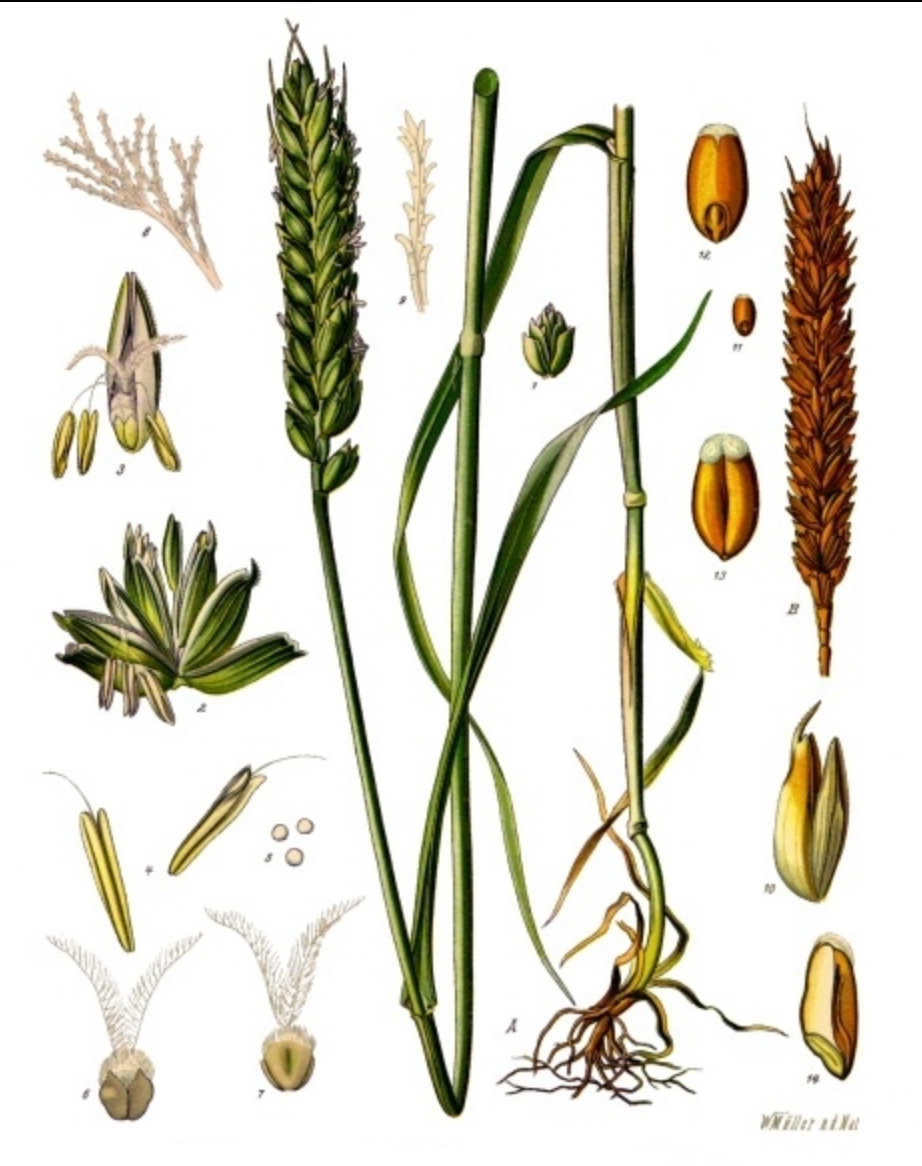
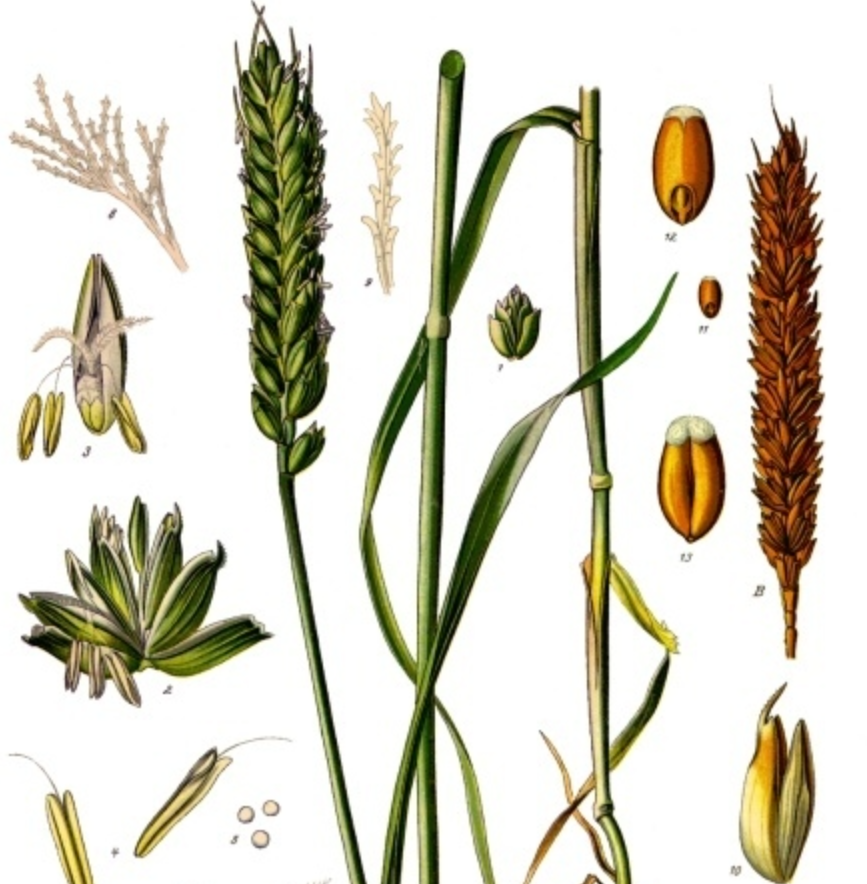
Deploying to gh-pages from @ Bendjelal/bendjelal.fr@a5c309a3e18c53d8cc8b93d42dd61bee09e488be 🚀

diff --git a/blog/index.html b/blog/index.html
@@ -1,5 +1,5 @@
 <!DOCTYPE html> <html lang="fr"> <head> <meta http-equiv="Content-Type" content="text/html; charset=UTF-8"> <meta charset="utf-8"> <meta name="viewport" content="width=device-width, initial-scale=1, shrink-to-fit=no"> <meta http-equiv="X-UA-Compatible" content="IE=edge"> <title> Blog | Yanis Bendjelal </title> <meta name="author" content="Yanis Bendjelal"> <meta name="description" content="Médecin Allergologue · Chercheur · SFA · EAACI "> <meta name="keywords" content="allergologie, médecine, intelligence artificielle, recherche médicale, analyse de données"> <meta http-equiv="Content-Security-Policy" content="default-src 'self'; script-src 'self' 'unsafe-inline' https:; style-src 'self' 'unsafe-inline' https:; img-src 'self' data: https:; font-src 'self' data: https:; media-src 'self' https:; frame-src 'self' https:; connect-src 'self' https:;"> <link rel="stylesheet" href="/assets/css/bootstrap.min.css?v=a4b3f509e79c54a512b890d73235ef04"> <link rel="stylesheet" href="https://cdn.jsdelivr.net/npm/mdbootstrap@4.20.0/css/mdb.min.css" integrity="sha256-jpjYvU3G3N6nrrBwXJoVEYI/0zw8htfFnhT9ljN3JJw=" crossorigin="anonymous"> <link defer rel="stylesheet" href="/assets/css/academicons.min.css?v=f0b7046b84e425c55f3463ac249818f5"> <link defer rel="stylesheet" href="/assets/css/scholar-icons.css?v=62b2ac103a88034e6882a5be5f3e2772"> <link defer rel="stylesheet" type="text/css" href="https://fonts.googleapis.com/css?family=Roboto:300,400,500,700|Roboto+Slab:100,300,400,500,700|Material+Icons&amp;display=swap"> <link defer rel="stylesheet" href="/assets/css/jekyll-pygments-themes-github.css?v=591dab5a4e56573bf4ef7fd332894c99" media="" id="highlight_theme_light"> <link rel="apple-touch-icon" sizes="180x180" href="/assets/img/favicon/apple-touch-icon.png"> <link rel="icon" type="image/png" sizes="32x32" href="/assets/img/favicon/favicon-32x32.png"> <link rel="icon" type="image/png" sizes="16x16" href="/assets/img/favicon/favicon-16x16.png"> <link rel="manifest" href="/assets/img/favicon/site.webmanifest"> <link rel="shortcut icon" href="/assets/img/favicon/favicon.ico"> <link rel="stylesheet" href="/assets/css/main.css?v=d41d8cd98f00b204e9800998ecf8427e"> <link rel="canonical" href="https://bendjelal.fr/blog/"> <script src="/assets/js/theme.js?v=5fea5159b787642c1bbc1f334d60f883"></script> <link defer rel="stylesheet" href="/assets/css/jekyll-pygments-themes-native.css?v=5847e5ed4a4568527aa6cfab446049ca" media="none" id="highlight_theme_dark"> <script>
     initTheme();
-  </script> </head> <body class="fixed-top-nav "> <header> <nav id="navbar" class="navbar navbar-light navbar-expand-sm fixed-top" role="navigation"> <div class="container"> <a class="navbar-brand title font-weight-lighter" href="/"> <span class="font-weight-bold">Yanis</span> Bendjelal </a> <button class="navbar-toggler collapsed ml-auto" type="button" data-toggle="collapse" data-target="#navbarNav" aria-controls="navbarNav" aria-expanded="false" aria-label="Toggle navigation"> <span class="sr-only">Toggle navigation</span> <span class="icon-bar top-bar"></span> <span class="icon-bar middle-bar"></span> <span class="icon-bar bottom-bar"></span> </button> <div class="collapse navbar-collapse text-right" id="navbarNav"> <ul class="navbar-nav ml-auto flex-nowrap"> <li class="nav-item "> <a class="nav-link" href="/">Accueil </a> </li> <li class="nav-item "> <a class="nav-link" href="/publications/">Publications </a> </li> <li class="nav-item "> <a class="nav-link" href="/communications/">Communications </a> </li> <li class="nav-item "> <a class="nav-link" href="/teaching/">Enseignement </a> </li> <li class="nav-item "> <a class="nav-link" href="/cv/">CV </a> </li> <li class="nav-item "> <a class="nav-link" href="/books/">Bibliothèque </a> </li> <li class="nav-item active"> <a class="nav-link" href="/blog/">Blog <span class="sr-only">(current)</span> </a> </li> <li class="nav-item"> <button id="search-toggle" title="Search" onclick="openSearchModal()"> <span class="nav-link"><i class="fa-solid fa-magnifying-glass"></i></span> </button> </li> <li class="toggle-container"> <button id="light-toggle" title="Change theme"> <i class="fa-half-sun-moon" id="light-toggle-system"></i> <i class="fa-solid fa-moon" id="light-toggle-dark"></i> <i class="fa-solid fa-sun" id="light-toggle-light"></i> </button> </li> </ul> </div> </div> </nav> <progress id="progress" value="0"> <div class="progress-container"> <span class="progress-bar"></span> </div> </progress> </header> <div class="container mt-5" role="main"> <div class="post"> <div class="header-bar"> <h1>Blog</h1> <h2></h2> </div> <ul class="post-list"> <li> <div class="row"> <div class="col-sm-9"> <h3> <a class="post-title" href="/blog/2026/Corticoides/">Allergie aux corticoïdes</a> </h3> <p></p> <p class="post-meta"> 24 min read   ·   January 29, 2026 </p> <p class="post-tags"> <a href="/blog/2026"> <i class="fa-solid fa-calendar fa-sm"></i> 2026 </a> </p> </div> <div class="col-sm-3"> <img class="card-img" src="/assets/img/blog/cortisone.png" style="object-fit: cover; height: 90%" alt="image"> </div> </div> </li> <li> <div class="row"> <div class="col-sm-9"> <h3> <a class="post-title" href="/blog/2026/Reaction_perfusion_vancomycine_revue/">Réaction de perfusion à la vancomycine</a> </h3> <p></p> <p class="post-meta"> 7 min read   ·   January 23, 2026 </p> <p class="post-tags"> <a href="/blog/2026"> <i class="fa-solid fa-calendar fa-sm"></i> 2026 </a> </p> </div> <div class="col-sm-3"> <img class="card-img" src="/assets/img/blog/vancomycine.png" style="object-fit: cover; height: 90%" alt="image"> </div> </div> </li> <li> <div class="row"> <div class="col-sm-9"> <h3> <a class="post-title" href="/blog/2025/Ble/">Allergie au blé et au gluten, maladie coeliaque, intolérance non coeliaque au blé</a> </h3> <p></p> <p class="post-meta"> 15 min read   ·   December 20, 2025 </p> <p class="post-tags"> <a href="/blog/2025"> <i class="fa-solid fa-calendar fa-sm"></i> 2025 </a> </p> </div> <div class="col-sm-3"> <img class="card-img" src="/assets/img/blog/ble.png" style="object-fit: cover; height: 90%" alt="image"> </div> </div> </li> </ul> </div> </div> <footer class="fixed-bottom" role="contentinfo"> <div class="container mt-0"> © Copyright 2026 Yanis Bendjelal. Propulsé par <a href="https://jekyllrb.com/" target="_blank" rel="external nofollow noopener">Jekyll</a> avec le thème <a href="https://github.com/alshedivat/al-folio" rel="external nofollow noopener" target="_blank">al-folio</a>. </div> </footer> <script src="https://cdn.jsdelivr.net/npm/jquery@3.6.0/dist/jquery.min.js" integrity="sha256-/xUj+3OJU5yExlq6GSYGSHk7tPXikynS7ogEvDej/m4=" crossorigin="anonymous"></script> <script src="/assets/js/bootstrap.bundle.min.js"></script> <script src="https://cdn.jsdelivr.net/npm/mdbootstrap@4.20.0/js/mdb.min.js" integrity="sha256-NdbiivsvWt7VYCt6hYNT3h/th9vSTL4EDWeGs5SN3DA=" crossorigin="anonymous"></script> <script defer src="https://cdn.jsdelivr.net/npm/masonry-layout@4.2.2/dist/masonry.pkgd.min.js" integrity="sha256-Nn1q/fx0H7SNLZMQ5Hw5JLaTRZp0yILA/FRexe19VdI=" crossorigin="anonymous"></script> <script defer src="https://cdn.jsdelivr.net/npm/imagesloaded@5.0.0/imagesloaded.pkgd.min.js" integrity="sha256-htrLFfZJ6v5udOG+3kNLINIKh2gvoKqwEhHYfTTMICc=" crossorigin="anonymous"></script> <script defer src="/assets/js/masonry.js?v=a0db7e5d5c70cc3252b3138b0c91dcaf" type="text/javascript"></script> <script defer src="https://cdn.jsdelivr.net/npm/medium-zoom@1.1.0/dist/medium-zoom.min.js" integrity="sha256-ZgMyDAIYDYGxbcpJcfUnYwNevG/xi9OHKaR/8GK+jWc=" crossorigin="anonymous"></script> <script defer src="/assets/js/zoom.js?v=85ddb88934d28b74e78031fd54cf8308"></script> <script src="/assets/js/no_defer.js?v=2781658a0a2b13ed609542042a859126"></script> <script defer src="/assets/js/common.js?v=c15de51d4bb57887caa2c21988d97279"></script> <script defer src="/assets/js/copy_code.js?v=c8a01c11a92744d44b093fc3bda915df" type="text/javascript"></script> <script defer src="/assets/js/jupyter_new_tab.js?v=d9f17b6adc2311cbabd747f4538bb15f"></script> <script async src="https://d1bxh8uas1mnw7.cloudfront.net/assets/embed.js"></script> <script async src="https://badge.dimensions.ai/badge.js"></script> <script defer type="text/javascript" id="MathJax-script" src="https://cdn.jsdelivr.net/npm/mathjax@3.2.2/es5/tex-mml-chtml.js" integrity="sha256-MASABpB4tYktI2Oitl4t+78w/lyA+D7b/s9GEP0JOGI=" crossorigin="anonymous"></script> <script src="/assets/js/mathjax-setup.js?v=a5bb4e6a542c546dd929b24b8b236dfd"></script> <script defer src="https://cdnjs.cloudflare.com/polyfill/v3/polyfill.min.js?features=es6" crossorigin="anonymous"></script> <script async src="https://www.googletagmanager.com/gtag/js?id="></script> <script defer src="/assets/js/google-analytics-setup.js"></script> <script defer src="/assets/js/progress-bar.js?v=2f30e0e6801ea8f5036fa66e1ab0a71a" type="text/javascript"></script> <script src="/assets/js/vanilla-back-to-top.min.js?v=f40d453793ff4f64e238e420181a1d17"></script> <script>
+  </script> </head> <body class="fixed-top-nav "> <header> <nav id="navbar" class="navbar navbar-light navbar-expand-sm fixed-top" role="navigation"> <div class="container"> <a class="navbar-brand title font-weight-lighter" href="/"> <span class="font-weight-bold">Yanis</span> Bendjelal </a> <button class="navbar-toggler collapsed ml-auto" type="button" data-toggle="collapse" data-target="#navbarNav" aria-controls="navbarNav" aria-expanded="false" aria-label="Toggle navigation"> <span class="sr-only">Toggle navigation</span> <span class="icon-bar top-bar"></span> <span class="icon-bar middle-bar"></span> <span class="icon-bar bottom-bar"></span> </button> <div class="collapse navbar-collapse text-right" id="navbarNav"> <ul class="navbar-nav ml-auto flex-nowrap"> <li class="nav-item "> <a class="nav-link" href="/">Accueil </a> </li> <li class="nav-item "> <a class="nav-link" href="/publications/">Publications </a> </li> <li class="nav-item "> <a class="nav-link" href="/communications/">Communications </a> </li> <li class="nav-item "> <a class="nav-link" href="/teaching/">Enseignement </a> </li> <li class="nav-item "> <a class="nav-link" href="/cv/">CV </a> </li> <li class="nav-item "> <a class="nav-link" href="/books/">Bibliothèque </a> </li> <li class="nav-item active"> <a class="nav-link" href="/blog/">Blog <span class="sr-only">(current)</span> </a> </li> <li class="nav-item"> <button id="search-toggle" title="Search" onclick="openSearchModal()"> <span class="nav-link"><i class="fa-solid fa-magnifying-glass"></i></span> </button> </li> <li class="toggle-container"> <button id="light-toggle" title="Change theme"> <i class="fa-half-sun-moon" id="light-toggle-system"></i> <i class="fa-solid fa-moon" id="light-toggle-dark"></i> <i class="fa-solid fa-sun" id="light-toggle-light"></i> </button> </li> </ul> </div> </div> </nav> <progress id="progress" value="0"> <div class="progress-container"> <span class="progress-bar"></span> </div> </progress> </header> <div class="container mt-5" role="main"> <div class="post"> <div class="header-bar"> <h1>Blog</h1> <h2></h2> </div> <ul class="post-list"> <li> <div class="row"> <div class="col-sm-9"> <h3> <a class="post-title" href="/blog/2026/Corticoides/">Allergie aux corticoïdes</a> </h3> <p></p> <p class="post-meta"> 24 min read   ·   January 29, 2026 </p> <p class="post-tags"> <a href="/blog/2026"> <i class="fa-solid fa-calendar fa-sm"></i> 2026 </a> </p> </div> <div class="col-sm-3"> <img class="card-img" src="/assets/img/blog/cortisone.png" style="object-fit: cover; height: 90%" alt="image"> </div> </div> </li> <li> <div class="row"> <div class="col-sm-9"> <h3> <a class="post-title" href="/blog/2026/Reaction_perfusion_vancomycine_revue/">Réaction de perfusion à la vancomycine</a> </h3> <p></p> <p class="post-meta"> 7 min read   ·   January 23, 2026 </p> <p class="post-tags"> <a href="/blog/2026"> <i class="fa-solid fa-calendar fa-sm"></i> 2026 </a> </p> </div> <div class="col-sm-3"> <img class="card-img" src="/assets/img/blog/vancomycine.png" style="object-fit: cover; height: 90%" alt="image"> </div> </div> </li> <li> <div class="row"> <div class="col-sm-9"> <h3> <a class="post-title" href="/blog/2025/Ble/">Allergie au blé et au gluten, maladie coeliaque, intolérance non coeliaque au blé</a> </h3> <p></p> <p class="post-meta"> 15 min read   ·   December 20, 2025 </p> <p class="post-tags"> <a href="/blog/2025"> <i class="fa-solid fa-calendar fa-sm"></i> 2025 </a> </p> </div> <div class="col-sm-3"> <img class="card-img" src="/assets/img/blog/ble2.png" style="object-fit: cover; height: 90%" alt="image"> </div> </div> </li> </ul> </div> </div> <footer class="fixed-bottom" role="contentinfo"> <div class="container mt-0"> © Copyright 2026 Yanis Bendjelal. Propulsé par <a href="https://jekyllrb.com/" target="_blank" rel="external nofollow noopener">Jekyll</a> avec le thème <a href="https://github.com/alshedivat/al-folio" rel="external nofollow noopener" target="_blank">al-folio</a>. </div> </footer> <script src="https://cdn.jsdelivr.net/npm/jquery@3.6.0/dist/jquery.min.js" integrity="sha256-/xUj+3OJU5yExlq6GSYGSHk7tPXikynS7ogEvDej/m4=" crossorigin="anonymous"></script> <script src="/assets/js/bootstrap.bundle.min.js"></script> <script src="https://cdn.jsdelivr.net/npm/mdbootstrap@4.20.0/js/mdb.min.js" integrity="sha256-NdbiivsvWt7VYCt6hYNT3h/th9vSTL4EDWeGs5SN3DA=" crossorigin="anonymous"></script> <script defer src="https://cdn.jsdelivr.net/npm/masonry-layout@4.2.2/dist/masonry.pkgd.min.js" integrity="sha256-Nn1q/fx0H7SNLZMQ5Hw5JLaTRZp0yILA/FRexe19VdI=" crossorigin="anonymous"></script> <script defer src="https://cdn.jsdelivr.net/npm/imagesloaded@5.0.0/imagesloaded.pkgd.min.js" integrity="sha256-htrLFfZJ6v5udOG+3kNLINIKh2gvoKqwEhHYfTTMICc=" crossorigin="anonymous"></script> <script defer src="/assets/js/masonry.js?v=a0db7e5d5c70cc3252b3138b0c91dcaf" type="text/javascript"></script> <script defer src="https://cdn.jsdelivr.net/npm/medium-zoom@1.1.0/dist/medium-zoom.min.js" integrity="sha256-ZgMyDAIYDYGxbcpJcfUnYwNevG/xi9OHKaR/8GK+jWc=" crossorigin="anonymous"></script> <script defer src="/assets/js/zoom.js?v=85ddb88934d28b74e78031fd54cf8308"></script> <script src="/assets/js/no_defer.js?v=2781658a0a2b13ed609542042a859126"></script> <script defer src="/assets/js/common.js?v=c15de51d4bb57887caa2c21988d97279"></script> <script defer src="/assets/js/copy_code.js?v=c8a01c11a92744d44b093fc3bda915df" type="text/javascript"></script> <script defer src="/assets/js/jupyter_new_tab.js?v=d9f17b6adc2311cbabd747f4538bb15f"></script> <script async src="https://d1bxh8uas1mnw7.cloudfront.net/assets/embed.js"></script> <script async src="https://badge.dimensions.ai/badge.js"></script> <script defer type="text/javascript" id="MathJax-script" src="https://cdn.jsdelivr.net/npm/mathjax@3.2.2/es5/tex-mml-chtml.js" integrity="sha256-MASABpB4tYktI2Oitl4t+78w/lyA+D7b/s9GEP0JOGI=" crossorigin="anonymous"></script> <script src="/assets/js/mathjax-setup.js?v=a5bb4e6a542c546dd929b24b8b236dfd"></script> <script defer src="https://cdnjs.cloudflare.com/polyfill/v3/polyfill.min.js?features=es6" crossorigin="anonymous"></script> <script async src="https://www.googletagmanager.com/gtag/js?id="></script> <script defer src="/assets/js/google-analytics-setup.js"></script> <script defer src="/assets/js/progress-bar.js?v=2f30e0e6801ea8f5036fa66e1ab0a71a" type="text/javascript"></script> <script src="/assets/js/vanilla-back-to-top.min.js?v=f40d453793ff4f64e238e420181a1d17"></script> <script>
     addBackToTop();
   </script> <script type="module" src="/assets/js/search/ninja-keys.min.js?v=a3446f084dcaecc5f75aa1757d087dcf"></script> <ninja-keys hidebreadcrumbs noautoloadmdicons placeholder="Type to start searching"></ninja-keys> <script src="/assets/js/search-setup.js?v=6c304f7b1992d4b60f7a07956e52f04a"></script> <script src="/assets/js/search-data.js"></script> <script src="/assets/js/shortcut-key.js?v=cfb6f6ebae78e94ff6d11ab83b8092ba"></script> </body> </html>